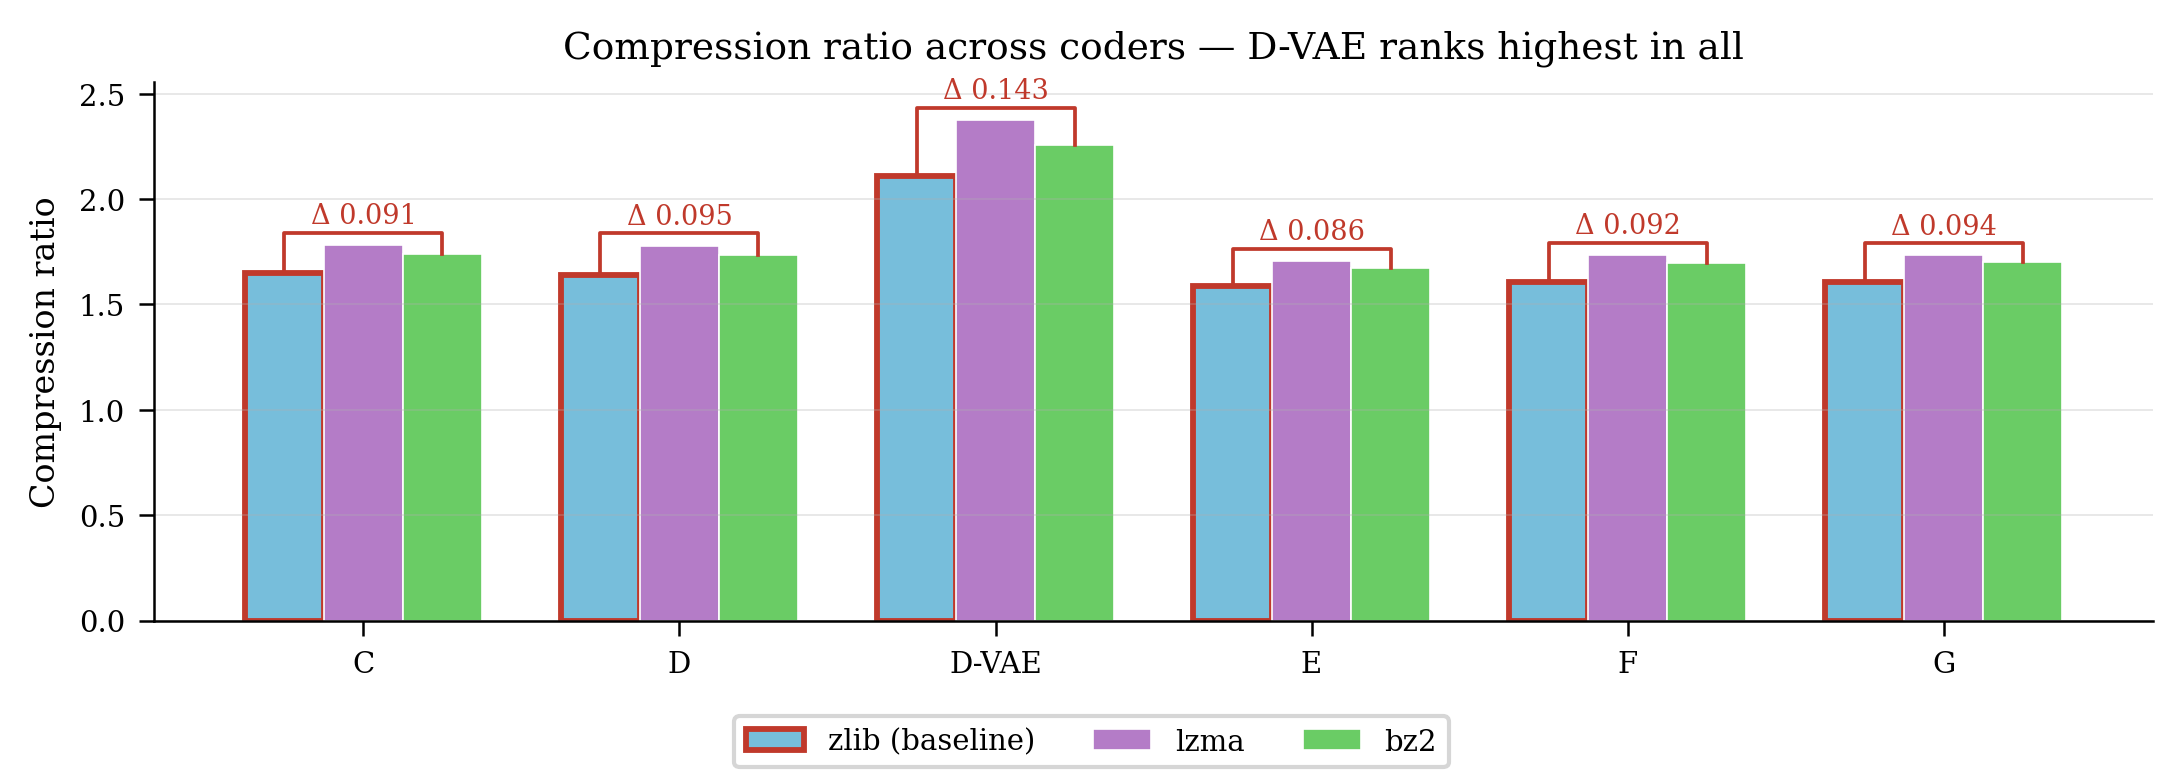
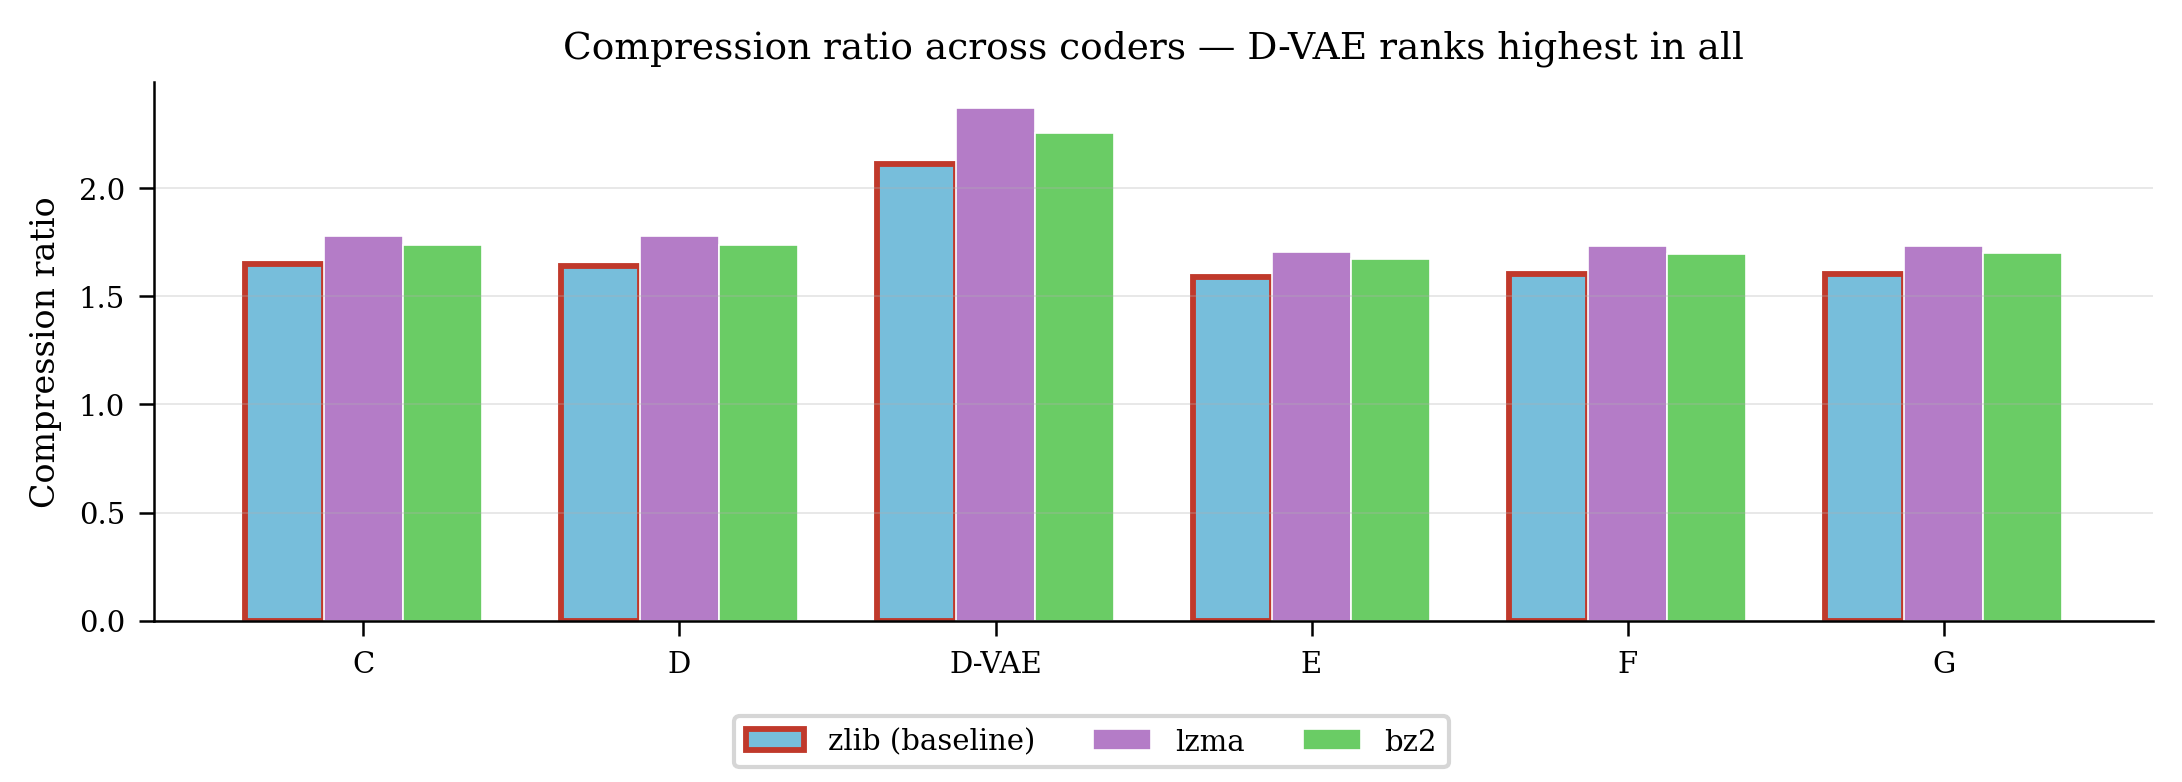
feat: update figures fig_03 and fig_10; remove annotations and simplify plots

diff --git a/scripts/figures/plots.py b/scripts/figures/plots.py
@@ -87,14 +87,6 @@ def fig_02_rd_curve(data: dict) -> plt.Figure:
 
         ax.plot(our_kbps, our_vals, 'o-', color=style.PHASE_COLORS['G'], linewidth=1.2,
                 markersize=4, label='EntroCodec (Phase G, SQ)')
-        # 1-bit and 2-bit points sit only ~0.2 kbps apart — label them
-        # directly so the pair doesn't read as a single marker.
-        ax.annotate('1-bit', (our_kbps[0], our_vals[0]), textcoords='offset points',
-                    xytext=(-8, 7), fontsize=6, ha='right', va='bottom',
-                    color=style.PHASE_COLORS['G'])
-        ax.annotate('2-bit', (our_kbps[1], our_vals[1]), textcoords='offset points',
-                    xytext=(8, 7), fontsize=6, ha='left', va='bottom',
-                    color=style.PHASE_COLORS['G'])
         ax.scatter([our_kbps[trained_idx]], [our_vals[trained_idx]],
                    color=style.PHASE_COLORS['G'], s=60, zorder=6, marker='*',
                    label=f'Trained (3-bit, {our_kbps[trained_idx]:.1f} kbps)')
@@ -470,19 +462,12 @@ def fig_16_multi_coder(data: dict) -> plt.Figure:
     c3 = style.PHASE_COLORS['D']
 
     fig, ax = plt.subplots(figsize=(style.COL2_W, style.ROW_H))
+    # zlib is the baseline used everywhere else in this analysis (fig_06,
+    # fig_09) — outlined in red; the outline alone is enough to mark it,
+    # no per-phase delta brackets needed on top.
     ax.bar(x - w,   zlib, w, color=c1, label='zlib (baseline)', edgecolor='#c0392b', linewidth=1.4)
     ax.bar(x,       lzma, w, color=c2, label='lzma',  edgecolor='white', linewidth=0.4)
     ax.bar(x + w,   bz2,  w, color=c3, label='bz2',   edgecolor='white', linewidth=0.4)
-    # zlib is the baseline used everywhere else in this analysis (fig_06,
-    # fig_15) — outlined in red, with a flat bracket to bz2 (straight, not a
-    # diagonal connecting two different bar heights) marking the gain the
-    # strongest coder offers over that baseline, for every phase.
-    for xi, (z, l, b) in enumerate(zip(zlib, lzma, bz2)):
-        y_bar = max(z, l, b) + 0.06
-        ax.plot([xi - w, xi - w, xi + w, xi + w], [z, y_bar, y_bar, b],
-                color='#c0392b', linewidth=0.9, zorder=6)
-        ax.text(xi, y_bar + 0.015, f'Δ {b - z:.3f}', ha='center', va='bottom',
-                fontsize=6.5, color='#c0392b')
     ax.set_xticks(x)
     ax.set_xticklabels(phases)
     ax.set_ylabel('Compression ratio')
